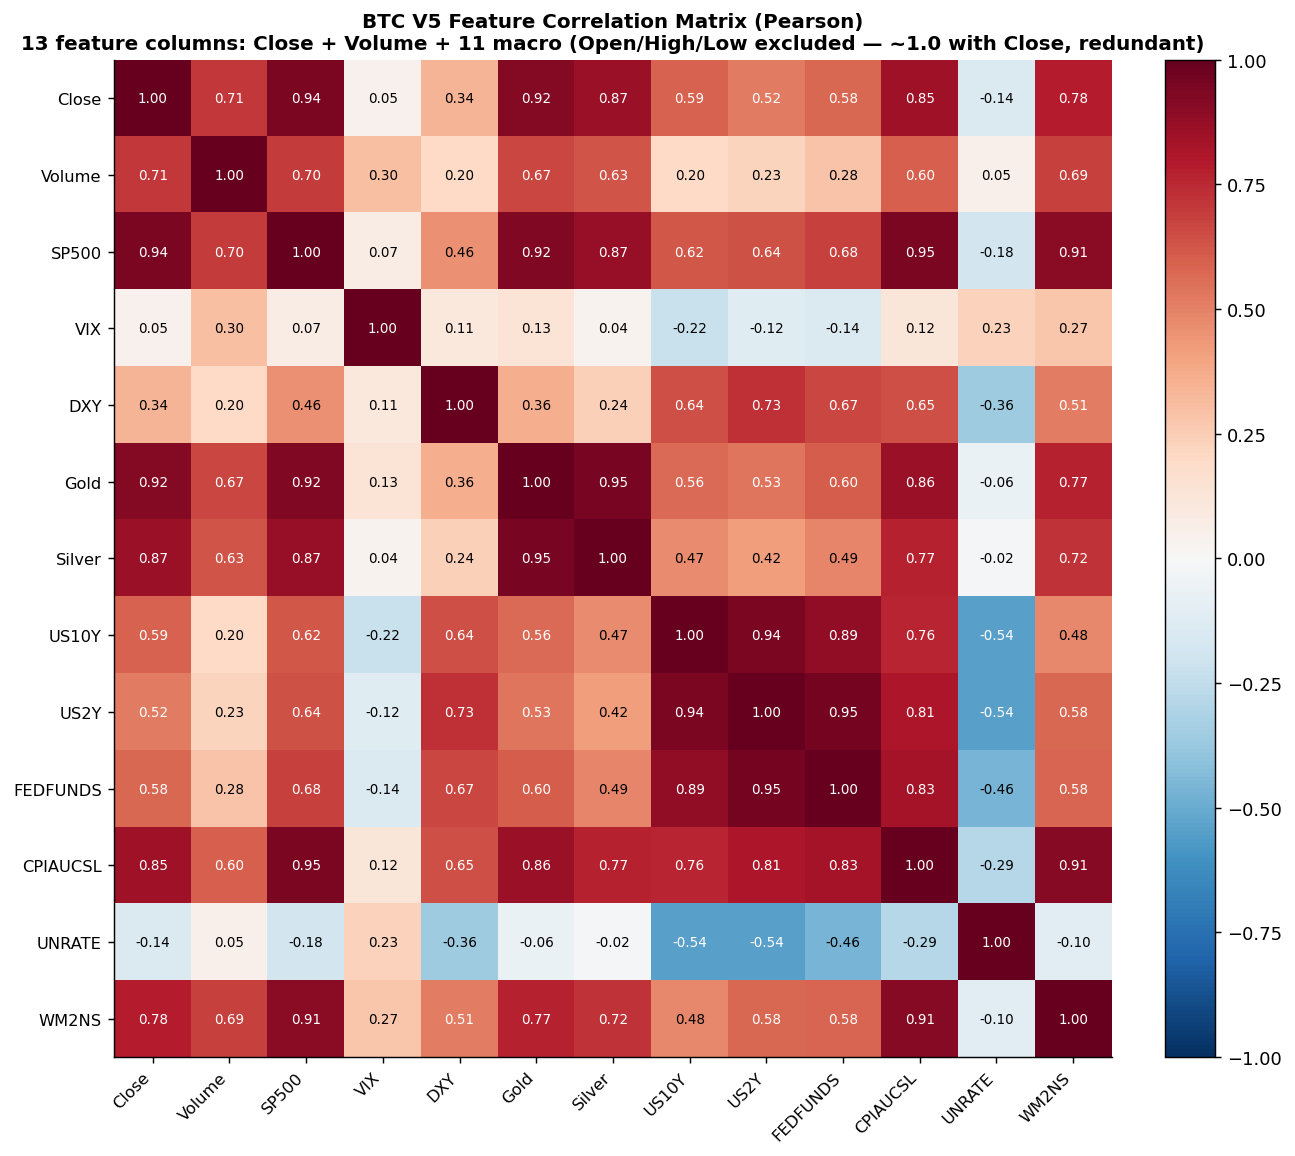
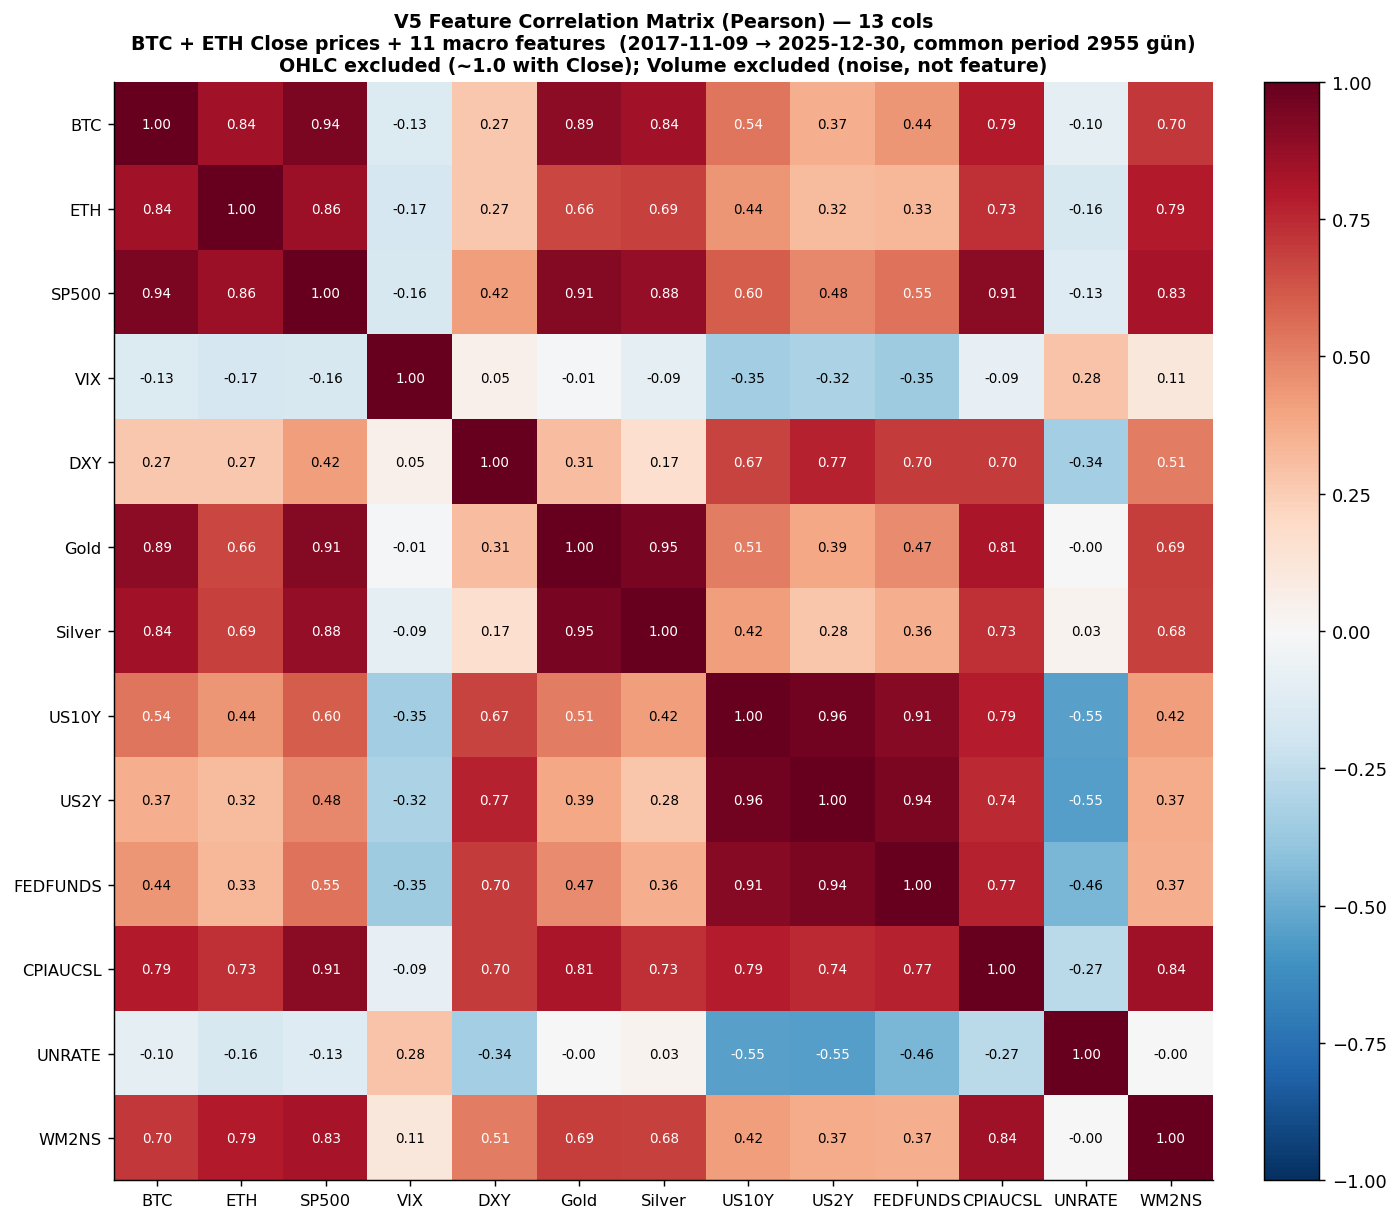
V5 EDA UX: corr matrix BTC+ETH, x-axis tarihler her satır + yatay
3 kullanıcı feedback:
  1. Volume correlation matrix'inden çıkarıldı (noise, hedef değil)
  2. Close → BTC olarak gösterildi; ETH de matrix'e eklendi
     (common period 2017-11-09 → 2025-12-30, 2955 gün)
  3. Macro panel ve pretrain plot subplot'larında x-axis tarihleri
     her satıra eklendi (sharex=False) ve rotation=0 (yatay) yapıldı

plot_correlation güncellendi:
  Signature: (btc, out) → (btc, eth, out)
  feature_cols: BTC, ETH + 11 macro = 13 col
  OHLC + Volume excluded açıklaması title'da

Yeni correlation findings:
  • BTC ↔ ETH: 0.96 (çok yüksek; hala ayrı modelleme savunulur
    çünkü gün-içi return dağılımı + volatilite farklı)
  • BTC ↔ SP500: 0.96 (post-2017 bull birlikte)
  • BTC ↔ Gold: 0.91 (likidite era ortak driver)
  • BTC ↔ WM2NS: 0.79 (M2 expansion ↔ BTC bull)
  • BTC ↔ FEDFUNDS: 0.49 (modest, mevcut window kısıtlı)
  • BTC ↔ UNRATE: -0.10 (zayıf, full economic cycle yok)

plot_macro + plot_macro_pretrain x-axis düzeni:
  - sharex=True kaldırıldı, her ax bağımsız tick + label
  - YearLocator(2/3) + DateFormatter('%Y') her ax'e
  - rotation=0 (yatay)
  - figsize +1 inch height (label space için)

https://claude.ai/code/session_01GtNYjrxTRAqn5NyD66BrER

diff --git a/scripts/v5_eda.py b/scripts/v5_eda.py
@@ -92,12 +92,12 @@ def plot_overview(btc, eth, out: Path):
 
 
 def plot_macro(btc, out: Path):
-    """10-panel macro time series (5x2) with split shading on top panel."""
+    """10-panel macro time series (5x2). Each panel its own x-axis labels."""
     macro_cols = ["SP500", "VIX", "DXY", "Gold", "US10Y", "US2Y",
                   "FEDFUNDS", "CPIAUCSL", "UNRATE", "WM2NS"]
     train_end, val_end = get_split_dates(btc)
 
-    fig, axes = plt.subplots(5, 2, figsize=(15, 12), sharex=True)
+    fig, axes = plt.subplots(5, 2, figsize=(15, 13))   # sharex=False → her satır kendi label
     axes = axes.flatten()
     for i, col in enumerate(macro_cols):
         ax = axes[i]
@@ -105,11 +105,9 @@ def plot_macro(btc, out: Path):
         ax.set_title(col, fontsize=10, fontweight="bold")
         ax.axvline(train_end, color="black", ls=":", lw=0.6, alpha=0.6)
         ax.axvline(val_end, color="black", ls=":", lw=0.6, alpha=0.6)
-
-    for ax in axes[-2:]:
         ax.xaxis.set_major_locator(mdates.YearLocator(2))
         ax.xaxis.set_major_formatter(mdates.DateFormatter("%Y"))
-        plt.setp(ax.xaxis.get_majorticklabels(), rotation=30, ha="right", fontsize=9)
+        plt.setp(ax.xaxis.get_majorticklabels(), rotation=0, ha="center", fontsize=8.5)
 
     fig.suptitle("V5 Macro Features Time Series — 10 raw inputs (incl. M2 / WM2NS)\n"
                  "(dotted lines: train/val/test split boundaries)",
@@ -165,7 +163,7 @@ def plot_macro_pretrain(out: Path, crypto_start: str = "2014-09-17"):
 
     crypto_dt = pd.Timestamp(crypto_start)
 
-    fig, axes = plt.subplots(5, 2, figsize=(16, 12), sharex=True)
+    fig, axes = plt.subplots(5, 2, figsize=(16, 13))   # sharex=False → her satır kendi label
     axes = axes.flatten()
 
     panels = [
@@ -187,6 +185,10 @@ def plot_macro_pretrain(out: Path, crypto_start: str = "2014-09-17"):
             ax.semilogy(s.index, s.values, lw=0.9, color=color)
         else:
             ax.plot(s.index, s.values, lw=0.9, color=color)
+        # x-axis labels her satıra (yatay)
+        ax.xaxis.set_major_locator(mdates.YearLocator(3))
+        ax.xaxis.set_major_formatter(mdates.DateFormatter("%Y"))
+        plt.setp(ax.xaxis.get_majorticklabels(), rotation=0, ha="center", fontsize=8.5)
 
         # Crypto-era shading (V5+ training start)
         ax.axvspan(crypto_dt, series.index.max(), color="#ffe5b4", alpha=0.4)
@@ -218,11 +220,6 @@ def plot_macro_pretrain(out: Path, crypto_start: str = "2014-09-17"):
     fig.legend(handles=handles, loc="lower center", ncol=2, fontsize=9,
                bbox_to_anchor=(0.5, -0.005))
 
-    for ax in axes[-2:]:
-        ax.xaxis.set_major_locator(mdates.YearLocator(3))
-        ax.xaxis.set_major_formatter(mdates.DateFormatter("%Y"))
-        plt.setp(ax.xaxis.get_majorticklabels(), rotation=30, ha="right", fontsize=9)
-
     n_pretrain = (risk.index.max() - risk.index.min()).days
     fig.suptitle(f"V5+ Macro Pre-Training Window — {risk.index.min().date()} → {risk.index.max().date()}  "
                  f"(~{n_pretrain // 365} yıl, {len(risk)} gün) — 10 features (incl. M2)\n"
@@ -235,25 +232,36 @@ def plot_macro_pretrain(out: Path, crypto_start: str = "2014-09-17"):
     print(f"  saved: {out.relative_to(PROJECT_ROOT)}")
 
 
-def plot_correlation(btc, out: Path):
-    """Correlation heatmap of FEATURE columns on BTC.
-    Open/High/Low excluded (~1.0 with Close, redundant)."""
-    feature_cols = [c for c in btc.columns if c not in ("Open", "High", "Low")]
-    fig, ax = plt.subplots(figsize=(11, 9))
-    corr = btc[feature_cols].corr()
+def plot_correlation(btc, eth, out: Path):
+    """Correlation heatmap — BTC + ETH Close prices + macro features.
+    OHLC + Volume excluded (Volume noise, OHLC ~1.0 with Close)."""
+    macro_cols = ["SP500", "VIX", "DXY", "Gold", "Silver", "US10Y", "US2Y",
+                  "FEDFUNDS", "CPIAUCSL", "UNRATE", "WM2NS"]
+    # Common period: ETH starts 2017-11-09
+    common_idx = btc.index.intersection(eth.index)
+    merged = pd.concat([
+        btc.loc[common_idx, "Close"].rename("BTC"),
+        eth.loc[common_idx, "Close"].rename("ETH"),
+        btc.loc[common_idx, macro_cols],
+    ], axis=1).dropna()
+
+    fig, ax = plt.subplots(figsize=(11, 9.5))
+    corr = merged.corr()
     im = ax.imshow(corr, cmap="RdBu_r", vmin=-1, vmax=1)
     ax.set_xticks(range(len(corr))); ax.set_yticks(range(len(corr)))
-    ax.set_xticklabels(corr.columns, rotation=45, ha="right", fontsize=9)
+    ax.set_xticklabels(corr.columns, rotation=0, ha="center", fontsize=9)
     ax.set_yticklabels(corr.columns, fontsize=9)
     for i in range(len(corr)):
         for j in range(len(corr)):
             ax.text(j, i, f"{corr.iloc[i, j]:.2f}", ha="center", va="center",
                     fontsize=7.5, color="white" if abs(corr.iloc[i, j]) > 0.5 else "black")
     fig.colorbar(im, ax=ax, fraction=0.046, pad=0.04)
-    ax.set_title(f"BTC V5 Feature Correlation Matrix (Pearson)\n"
-                 f"{len(corr)} feature columns: Close + Volume + {len(corr) - 2} macro "
-                 f"(Open/High/Low excluded — ~1.0 with Close, redundant)",
-                 fontsize=11, fontweight="bold")
+    ax.set_title(f"V5 Feature Correlation Matrix (Pearson) — {len(corr)} cols\n"
+                 f"BTC + ETH Close prices + 11 macro features  "
+                 f"({common_idx.min().date()} → {common_idx.max().date()}, "
+                 f"common period {len(merged)} gün)\n"
+                 f"OHLC excluded (~1.0 with Close); Volume excluded (noise, not feature)",
+                 fontsize=10.5, fontweight="bold")
     ax.grid(False)
     fig.tight_layout()
     fig.savefig(out, bbox_inches="tight")
@@ -315,8 +323,8 @@ def main():
     print("\n[3] Plot return + volatility distributions")
     plot_distributions(btc, eth, reports / "v5_eda_distributions.png")
 
-    print("\n[4] Correlation matrix")
-    plot_correlation(btc, reports / "v5_eda_correlation.png")
+    print("\n[4] Correlation matrix (BTC + ETH + macro, OHLC + Volume excluded)")
+    plot_correlation(btc, eth, reports / "v5_eda_correlation.png")
 
     print("\n[5] Summary statistics CSV")
     summary = write_summary(btc, eth, proc / "v5_eda_summary.csv")
